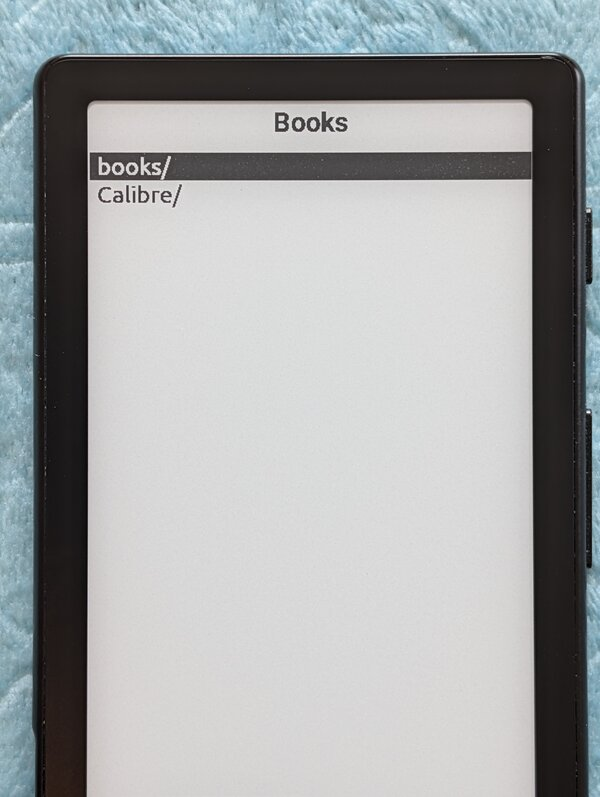
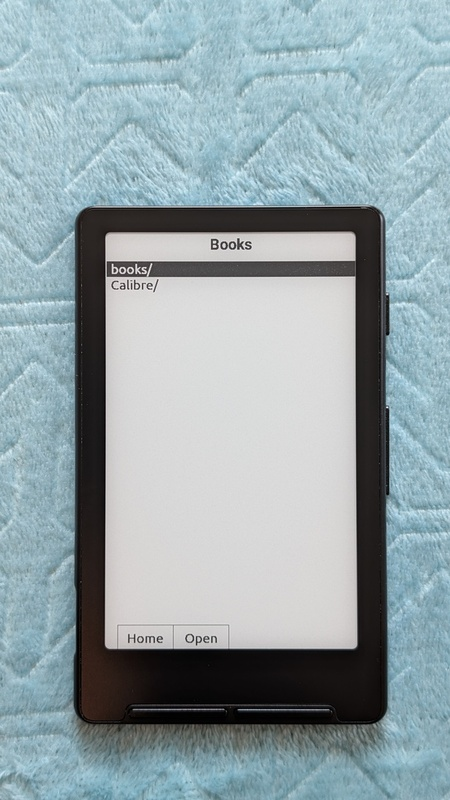
Update documentation images with new device photos

diff --git a/README.md b/README.md
@@ -16,7 +16,7 @@ Built using **PlatformIO** and targeting the **ESP32-C3** microcontroller.
 
 Papyrix is a fork of [CrossPoint Reader](https://github.com/daveallie/crosspoint-reader), focused on creating a light, streamlined reading experience with improved UI defaults.
 
-![](./docs/images/cover.jpg)
+![](./docs/images/device.jpg)
 
 ## Motivation
 
